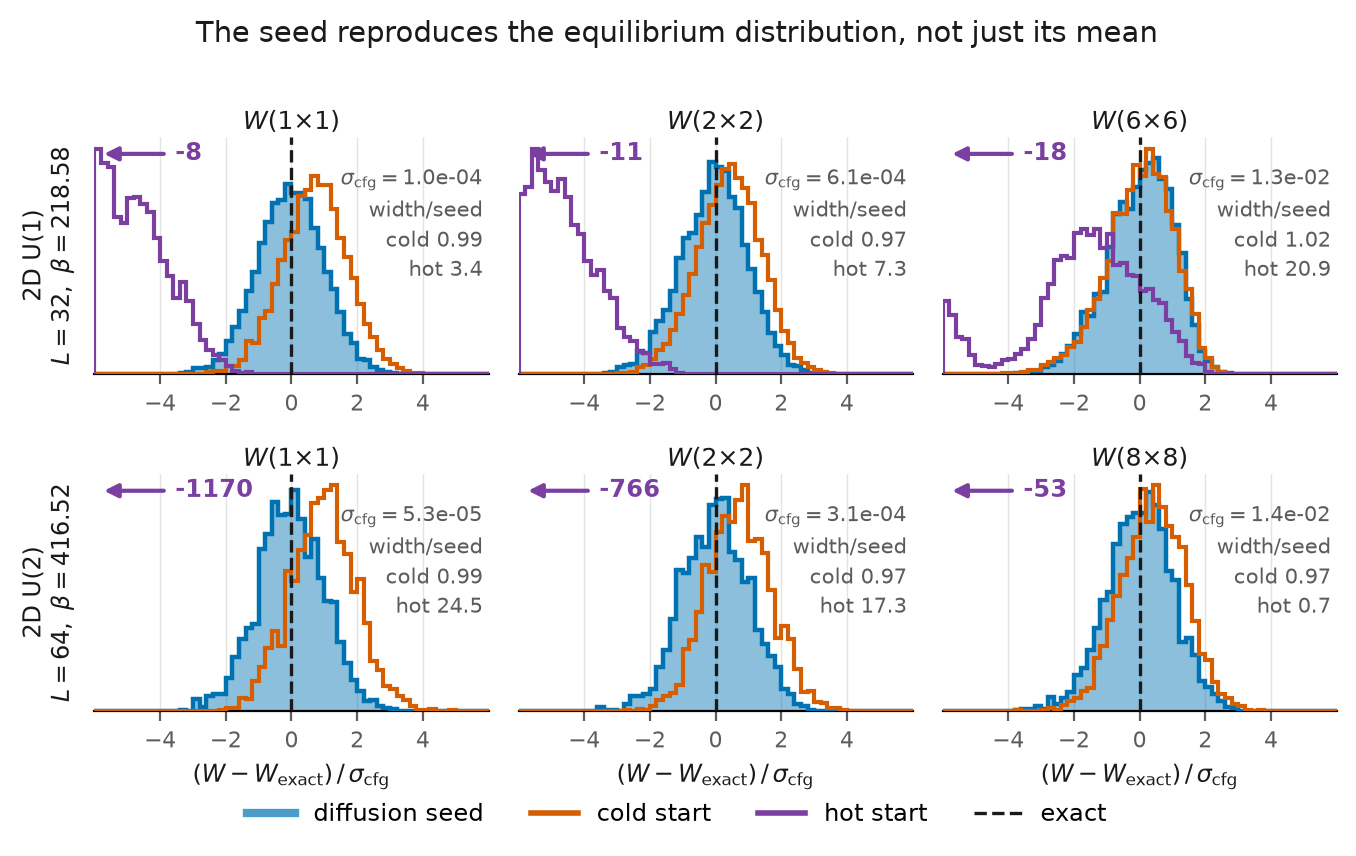
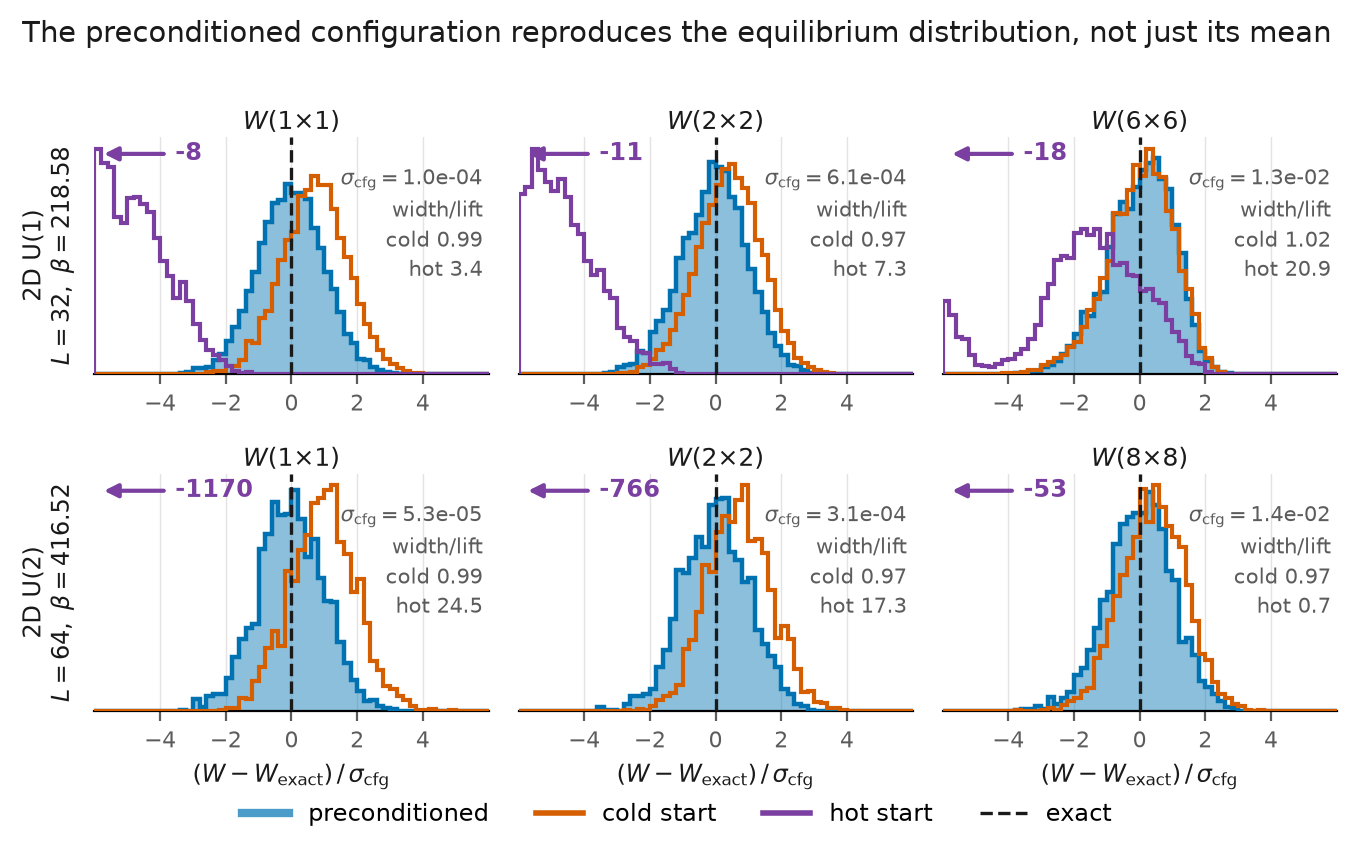
audits

diff --git a/u2_2d/scripts/88_uv_distribution_figure.py b/u2_2d/scripts/88_uv_distribution_figure.py
@@ -97,7 +97,7 @@ def tail(a: np.ndarray) -> np.ndarray:
 def load_u1():
     z = np.load(U1_SERIES)
     arms = {}
-    for arm, key in (("seed", "diffusion seed"), ("cold", "cold start"),
+    for arm, key in (("lift", "diffusion seed"), ("cold", "cold start"),
                      ("hot", "hot start")):
         arms[arm] = {k: tail(z[f"{key}|{k}"]) for k, _, _ in U1_LOOPS}
     exact = {k: u1_exact(218.5802136261687, a, lattice_size=32)
@@ -106,7 +106,7 @@ def load_u1():
 
 
 def load_u2():
-    files = {"seed": "arm_A_diffusion_seed", "cold": "arm_B_cold_start",
+    files = {"lift": "arm_A_diffusion_seed", "cold": "arm_B_cold_start",
              "hot": "arm_C_hot_start"}
     arms = {}
     for arm, stem in files.items():
@@ -119,11 +119,11 @@ def load_u2():
 
 
 def panel(ax, arms, exact, key, label, xlim=6.0):
-    ref = arms["seed"][key].std()
+    ref = arms["lift"][key].std()
     ex = exact[key]
     bins = np.linspace(-xlim, xlim, 61)
 
-    for arm, colour, style in (("seed", SEED_C, "fill"), ("cold", COLD_C, "step"),
+    for arm, colour, style in (("lift", SEED_C, "fill"), ("cold", COLD_C, "step"),
                                ("hot", HOT_C, "step")):
         v = (arms[arm][key] - ex) / ref
         inside = v[(v > -xlim) & (v < xlim)]
@@ -169,7 +169,7 @@ def panel(ax, arms, exact, key, label, xlim=6.0):
     w_hot = arms["hot"][key].std() / ref
     ax.text(0.985, 0.88,
             r"$\sigma_{\rm cfg}=$" + f"{ref:.1e}"
-            + f"\nwidth/seed\ncold {w_cold:.2f}\nhot {w_hot:.1f}",
+            + f"\nwidth/lift\ncold {w_cold:.2f}\nhot {w_hot:.1f}",
             transform=ax.transAxes, ha="right", va="top", fontsize=7.5,
             color=MUTED, linespacing=1.4)
 
@@ -180,15 +180,15 @@ def load_charges():
     from u2_2d.lgt.exact import det_topological_charge_distribution as u2_pq
 
     z = np.load(U1_TOPO_SERIES)
-    u1 = {a: tail(z[f"{k}|Q"]) for a, k in (("seed", "diffusion seed"),
+    u1 = {a: tail(z[f"{k}|Q"]) for a, k in (("lift", "diffusion seed"),
                                             ("cold", "cold start"),
                                             ("hot", "hot start"))}
     u1_chains = {a: np.asarray(z[f"{k}|Q"])[np.asarray(z[f"{k}|Q"]).shape[0] // 2:]
-                 for a, k in (("seed", "diffusion seed"), ("cold", "cold start"),
+                 for a, k in (("lift", "diffusion seed"), ("cold", "cold start"),
                               ("hot", "hot start"))}
     qv1, pq1 = u1_pq(U1_TOPO_BETA, U1_L, "wilson")
 
-    files = {"seed": "arm_A_diffusion_seed", "cold": "arm_B_cold_start",
+    files = {"lift": "arm_A_diffusion_seed", "cold": "arm_B_cold_start",
              "hot": "arm_C_hot_start"}
     u2, u2_chains = {}, {}
     for arm, stem in files.items():
@@ -215,7 +215,7 @@ def topo_panel(ax, arms, chains, qv, pq, title, volume, qmax=5, rng=None):
     exact_q2 = float((qv ** 2 * pq).sum())
 
     width = 0.26
-    for k, (arm, colour) in enumerate((("seed", SEED_C), ("cold", COLD_C),
+    for k, (arm, colour) in enumerate((("lift", SEED_C), ("cold", COLD_C),
                                        ("hot", HOT_C))):
         v = np.rint(arms[arm]).astype(int)
         frac = np.array([(v == q).mean() for q in qs])
@@ -241,13 +241,13 @@ def topo_panel(ax, arms, chains, qv, pq, title, volume, qmax=5, rng=None):
     ax.tick_params(colors=MUTED, labelsize=8.5)
 
     lines = [r"$\langle Q^2\rangle$ / exact", f"exact  {exact_q2:.3f}"]
-    for arm, colour in (("seed", SEED_C), ("cold", COLD_C), ("hot", HOT_C)):
+    for arm, colour in (("lift", SEED_C), ("cold", COLD_C), ("hot", HOT_C)):
         per_chain = (chains[arm] ** 2).mean(axis=0)
         m = float(per_chain.mean())
         idx = rng.integers(0, per_chain.size, size=(4000, per_chain.size))
         err = float(per_chain[idx].mean(axis=1).std())
         zs = (m - exact_q2) / err if err > 0 else np.inf
-        lines.append(f"{arm}  {m / exact_q2:.2f}   ({zs:+.1f}$\\sigma$)"
+        lines.append(f"{arm}  {m / exact_q2:.2f}"
                      if np.isfinite(zs) else f"{arm}  0.00   (frozen)")
     ax.text(0.03, 0.97, "\n".join(lines), transform=ax.transAxes, ha="left",
             va="top", fontsize=8.0, color=MUTED, linespacing=1.5)
@@ -264,7 +264,7 @@ def figure_topology(out_path):
                r"2D U(2),  $L=64,\ \beta=416.52$", U2_L ** 2, rng=rng)
     axes[0].set_ylabel(r"$P(Q)$", fontsize=9.5, color=INK)
 
-    handles = [plt.Line2D([], [], color=SEED_C, lw=6, alpha=0.85, label="diffusion seed"),
+    handles = [plt.Line2D([], [], color=SEED_C, lw=6, alpha=0.85, label="preconditioned"),
                plt.Line2D([], [], color=COLD_C, lw=6, alpha=0.85, label="cold start"),
                plt.Line2D([], [], color=HOT_C, lw=6, alpha=0.85, label="hot start"),
                plt.Line2D([], [], color=INK, lw=1.4, marker="o", ms=4, label="exact")]
@@ -307,14 +307,15 @@ def main() -> int:
         ax.set_xlabel(r"$(W - W_{\rm exact})\,/\,\sigma_{\rm cfg}$",
                       fontsize=8.5, color=INK)
 
-    handles = [plt.Line2D([], [], color=SEED_C, lw=3, alpha=0.7, label="diffusion seed"),
+    handles = [plt.Line2D([], [], color=SEED_C, lw=3, alpha=0.7, label="preconditioned"),
                plt.Line2D([], [], color=COLD_C, lw=2, label="cold start"),
                plt.Line2D([], [], color=HOT_C, lw=2, label="hot start"),
                plt.Line2D([], [], color=INK, lw=1.2, ls="--", label="exact")]
     fig.legend(handles=handles, loc="lower center", ncol=4, frameon=False,
                fontsize=8.5, bbox_to_anchor=(0.5, -0.035))
 
-    fig.suptitle("The seed reproduces the equilibrium distribution, not just its mean",
+    fig.suptitle("The preconditioned configuration reproduces the equilibrium "
+                 "distribution, not just its mean",
                  fontsize=10.5, color=INK, y=1.0)
     fig.tight_layout()
 
@@ -329,9 +330,9 @@ def main() -> int:
     for name, arms, ex, loops in (("u1", u1_arms, u1_ex, U1_LOOPS),
                                   ("u2", u2_arms, u2_ex, U2_LOOPS)):
         for key, _, label in loops:
-            ref = arms["seed"][key].std()
+            ref = arms["lift"][key].std()
             row = [f"{name} {key:12s}"]
-            for arm in ("seed", "cold", "hot"):
+            for arm in ("lift", "cold", "hot"):
                 v = arms[arm][key]
                 row.append(f"{arm}: c={(v.mean() - ex[key]) / ref:+7.2f} "
                            f"w={v.std() / ref:6.2f}")
